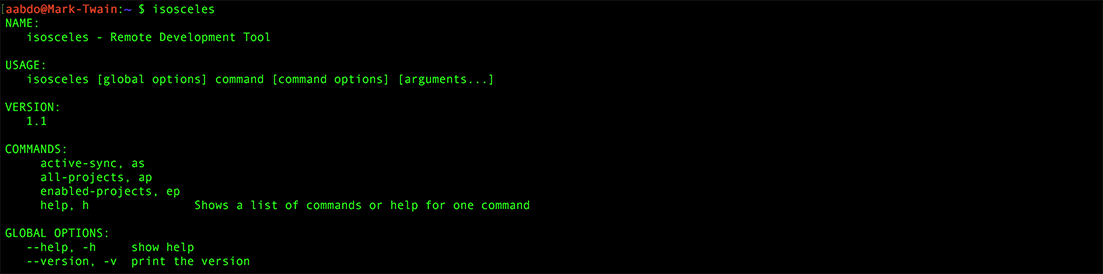
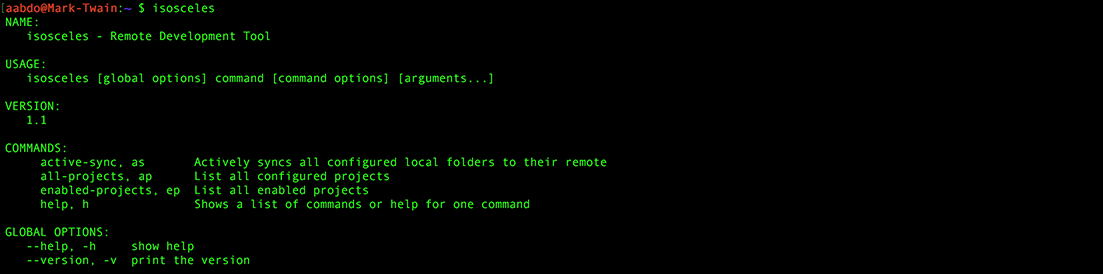
fixing usage message

diff --git a/isosceles.go b/isosceles.go
@@ -17,9 +17,9 @@ func main() {
 	app.Version = "1.1"
 	app.Commands = []cli.Command{
 		{
-			Name:        "active-sync",
-			ShortName:   "as",
-			Description: "Actively syncs all configured local folders to their remote",
+			Name:      "active-sync",
+			ShortName: "as",
+			Usage:     "Actively syncs all configured local folders to their remote",
 			Action: func(c *cli.Context) error {
 				log("Reading configuration file...", nil)
 				cfg, err := config.ReadConfig()
@@ -35,9 +35,9 @@ func main() {
 			},
 		},
 		{
-			Name:        "all-projects",
-			ShortName:   "ap",
-			Description: "List all configured projects",
+			Name:      "all-projects",
+			ShortName: "ap",
+			Usage:     "List all configured projects",
 			Action: func(c *cli.Context) error {
 				cfg, err := config.ReadConfig()
 				if err != nil {
@@ -48,9 +48,9 @@ func main() {
 			},
 		},
 		{
-			Name:        "enabled-projects",
-			ShortName:   "ep",
-			Description: "List all enabled projects",
+			Name:      "enabled-projects",
+			ShortName: "ep",
+			Usage:     "List all enabled projects",
 			Action: func(c *cli.Context) error {
 				cfg, err := config.ReadConfig()
 				if err != nil {
